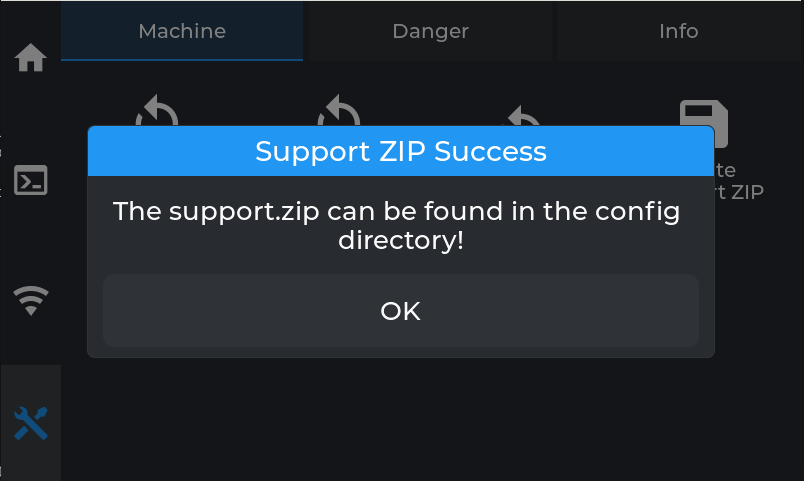
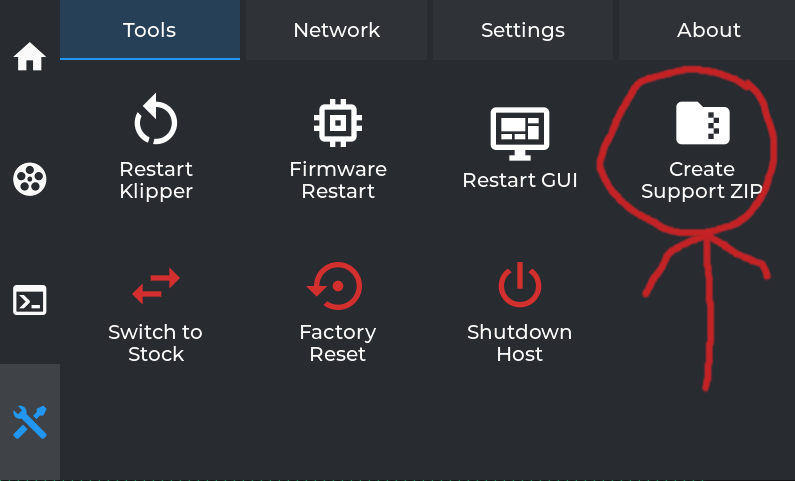
update wiki for switch to stock revert but also updaet the grumpyscreen support zip image

diff --git a/docs/switch_to_stock.md b/docs/switch_to_stock.md
@@ -53,13 +53,19 @@ that into Fluidd or Mainsail and execute it.
 
 ![image](assets/images/revert_switch_to_stock.png)
 
+!!! tip
+
+    Returning to Simple AF will stop klipper, so it might look like the script has stopped, its not, its still running in the background,
+    wait until the screen appears.    If you are interested in why maybe its taking a long time look for a switch-to-stock log file in the
+    logs section of Fluidd or Mainsail!
+
 It is **extremely important** you wait for the screen to show this message:
 
 ![image](assets/images/restart.jpg)
 
 !!! danger "Wait for Power Cycle your Printer screen"
 
-    If you power cycle before that screen appears you will likely have to factory reset and start again
+    If you power cycle before that screen appears you will likely have to factory reset and start again!
 
 ### Via SSH
 
